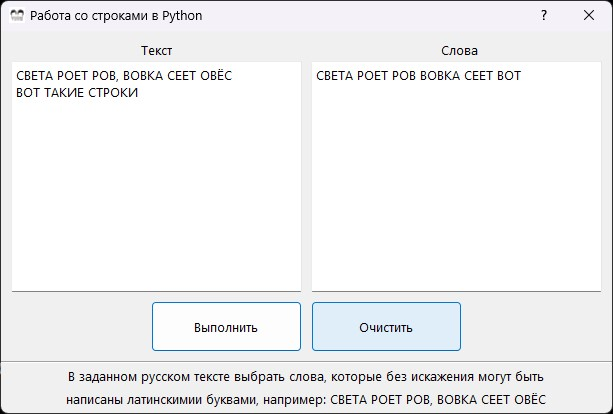
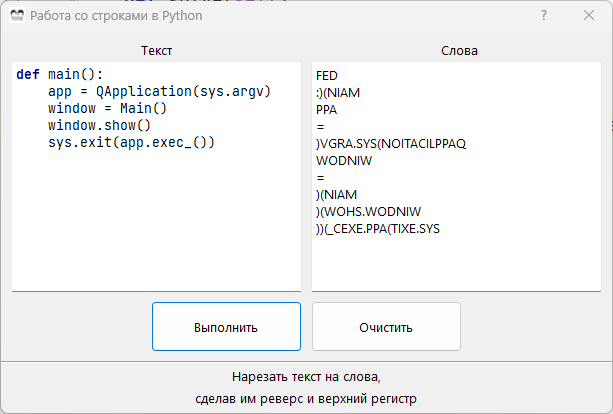
update

diff --git a/Main.py b/Main.py
@@ -23,15 +23,9 @@ class Main(QDialog):
     def solve(self):
         self.textEdit_words.clear()
         text = self.textEdit_text.toPlainText()  # получаем наш текст
-
-        # для строки "СВЕТА РОЕТ РОВ, ВОВКА СЕЕТ ОВЁС"
-        # получится список: ['СВЕТА', 'РОЕТ', 'РОВ', 'ВОВКА', 'СЕЕТ']
-        #
-        # \b -- ищет границы слов
-        # [АВСТРХОНКМУЕ] -- описывает что ищем
-        # + -- говорит, что искать нужно минимум от 1 символа
-        for word in re.findall(r'\b[АВСТРХОНКМУЕ]+\b', text):
-            self.textEdit_words.insertPlainText(word + " ")
+        txt=text.split()
+        for s in txt:
+            self.textEdit_words.insertPlainText(s.upper()[::-1]+"\n")
 
     def clear(self):
         self.textEdit_text.clear()
